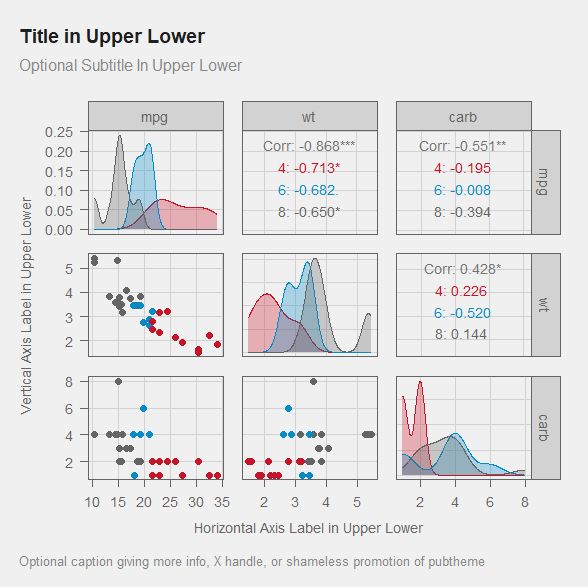
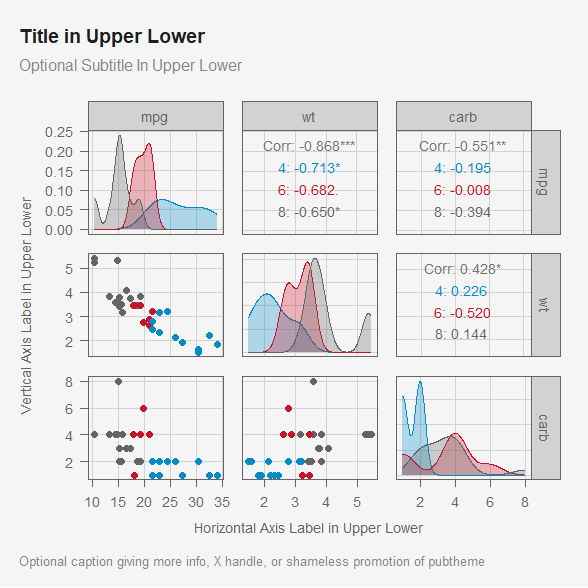
Update img and man

diff --git a/img/Title in Upper Lower.html b/img/Title in Upper Lower.html
@@ -16,9 +16,9 @@
 </head>
 <body>
 <div id="htmlwidget_container">
-  <div id="htmlwidget-3e9abdb3516067872303" style="width:480px;height:480px;" class="plotly html-widget"></div>
+  <div id="htmlwidget-aa36af4b4dc9a694ee22" style="width:480px;height:480px;" class="plotly html-widget"></div>
 </div>
-<script type="application/json" data-for="htmlwidget-3e9abdb3516067872303">{"x":{"data":[{"x":[2.32,3.19,3.15,2.2,1.615,1.835,2.465,1.935,2.14,1.513,2.78],"y":[22.8,24.4,22.8,32.4,30.4,33.9,21.5,27.3,26,30.4,21.4],"text":["Weight: 2.320<br />MPG: 22.8<br />Cylinders: 4<br />Datsun 710","Weight: 3.190<br />MPG: 24.4<br />Cylinders: 4<br />Merc 240D","Weight: 3.150<br />MPG: 22.8<br />Cylinders: 4<br />Merc 230","Weight: 2.200<br />MPG: 32.4<br />Cylinders: 4<br />Fiat 128","Weight: 1.615<br />MPG: 30.4<br />Cylinders: 4<br />Honda Civic","Weight: 1.835<br />MPG: 33.9<br />Cylinders: 4<br />Toyota Corolla","Weight: 2.465<br />MPG: 21.5<br />Cylinders: 4<br />Toyota Corona","Weight: 1.935<br />MPG: 27.3<br />Cylinders: 4<br />Fiat X1-9","Weight: 2.140<br />MPG: 26.0<br />Cylinders: 4<br />Porsche 914-2","Weight: 1.513<br />MPG: 30.4<br />Cylinders: 4<br />Lotus Europa","Weight: 2.780<br />MPG: 21.4<br />Cylinders: 4<br />Volvo 142E"],"type":"scatter","mode":"markers","marker":{"autocolorscale":false,"color":"rgba(200,20,40,1)","opacity":1,"size":8.81889763779528,"symbol":"circle","line":{"width":1.88976377952756,"color":"rgba(200,20,40,1)"},"sizeref":1.5},"hoveron":"points","name":"4","legendgroup":"4","showlegend":true,"xaxis":"x","yaxis":"y","hoverinfo":"text","frame":null},{"x":[2.62,2.875,3.215,3.46,3.44,3.44,2.77],"y":[21,21,21.4,18.1,19.2,17.8,19.7],"text":["Weight: 2.620<br />MPG: 21.0<br />Cylinders: 6<br />Mazda RX4","Weight: 2.875<br />MPG: 21.0<br />Cylinders: 6<br />Mazda RX4 Wag","Weight: 3.215<br />MPG: 21.4<br />Cylinders: 6<br />Hornet 4 Drive","Weight: 3.460<br />MPG: 18.1<br />Cylinders: 6<br />Valiant","Weight: 3.440<br />MPG: 19.2<br />Cylinders: 6<br />Merc 280","Weight: 3.440<br />MPG: 17.8<br />Cylinders: 6<br />Merc 280C","Weight: 2.770<br />MPG: 19.7<br />Cylinders: 6<br />Ferrari Dino"],"type":"scatter","mode":"markers","marker":{"autocolorscale":false,"color":"rgba(5,140,200,1)","opacity":1,"size":8.81889763779528,"symbol":"circle","line":{"width":1.88976377952756,"color":"rgba(5,140,200,1)"},"sizeref":1.5},"hoveron":"points","name":"6","legendgroup":"6","showlegend":true,"xaxis":"x","yaxis":"y","hoverinfo":"text","frame":null},{"x":[3.44,3.57,4.07,3.73,3.78,5.25,5.424,5.345,3.52,3.435,3.84,3.845,3.17,3.57],"y":[18.7,14.3,16.4,17.3,15.2,10.4,10.4,14.7,15.5,15.2,13.3,19.2,15.8,15],"text":["Weight: 3.440<br />MPG: 18.7<br />Cylinders: 8<br />Hornet Sportabout","Weight: 3.570<br />MPG: 14.3<br />Cylinders: 8<br />Duster 360","Weight: 4.070<br />MPG: 16.4<br />Cylinders: 8<br />Merc 450SE","Weight: 3.730<br />MPG: 17.3<br />Cylinders: 8<br />Merc 450SL","Weight: 3.780<br />MPG: 15.2<br />Cylinders: 8<br />Merc 450SLC","Weight: 5.250<br />MPG: 10.4<br />Cylinders: 8<br />Cadillac Fleetwood","Weight: 5.424<br />MPG: 10.4<br />Cylinders: 8<br />Lincoln Continental","Weight: 5.345<br />MPG: 14.7<br />Cylinders: 8<br />Chrysler Imperial","Weight: 3.520<br />MPG: 15.5<br />Cylinders: 8<br />Dodge Challenger","Weight: 3.435<br />MPG: 15.2<br />Cylinders: 8<br />AMC Javelin","Weight: 3.840<br />MPG: 13.3<br />Cylinders: 8<br />Camaro Z28","Weight: 3.845<br />MPG: 19.2<br />Cylinders: 8<br />Pontiac Firebird","Weight: 3.170<br />MPG: 15.8<br />Cylinders: 8<br />Ford Pantera L","Weight: 3.570<br />MPG: 15.0<br />Cylinders: 8<br />Maserati Bora"],"type":"scatter","mode":"markers","marker":{"autocolorscale":false,"color":"rgba(100,100,100,1)","opacity":1,"size":8.81889763779528,"symbol":"circle","line":{"width":1.88976377952756,"color":"rgba(100,100,100,1)"},"sizeref":1.5},"hoveron":"points","name":"8","legendgroup":"8","showlegend":true,"xaxis":"x","yaxis":"y","hoverinfo":"text","frame":null}],"layout":{"margin":{"t":98,"r":16.6666666666667,"b":62,"l":62,"pad":0},"plot_bgcolor":"#F0F0F0","paper_bgcolor":"#F0F0F0","font":{"color":"#646464","family":"Arial","size":12},"title":{"text":"<b> Title in Upper Lower <\/b>","font":{"color":"#1E1E1E","family":"Arial","size":16.6666666666667},"x":0,"xref":"container","pad":{"t":30,"b":30,"l":16.6666666666667,"r":16.6666666666667},"xanchor":"left","y":1,"yanchor":"top","yref":"container"},"xaxis":{"domain":[0,1],"automargin":true,"type":"linear","autorange":false,"range":[0,6],"tickmode":"array","ticktext":["0","3","6"],"tickvals":[0,3,6],"categoryorder":"array","categoryarray":["0","3","6"],"nticks":3,"ticks":"outside","tickcolor":"#646464","ticklen":6.66666666666667,"tickwidth":0.666666666666667,"showticklabels":true,"tickfont":{"color":"#646464","family":"Arial","size":12},"tickangle":-0,"showline":true,"linecolor":"#646464","linewidth":0.666666666666667,"showgrid":true,"gridcolor":"#D2D2D2","gridwidth":0.666666666666667,"zeroline":false,"anchor":"y","title":{"text":"Horizontal Axis Label in Upper Lower","font":{"color":"#646464","family":"Arial","size":12},"standoff":10},"hoverformat":".2f","tick0":0,"mirror":true,"ticklabelstep":1,"layer":"below traces"},"yaxis":{"domain":[0,1],"automargin":true,"type":"linear","autorange":false,"range":[0,40],"tickmode":"array","ticktext":["0","20","40"],"tickvals":[0,20,40],"categoryorder":"array","categoryarray":["0","20","40"],"nticks":null,"ticks":"outside","tickcolor":"#646464","ticklen":6.66666666666667,"tickwidth":0.666666666666667,"showticklabels":true,"tickfont":{"color":"#646464","family":"Arial","size":12},"tickangle":-0,"showline":true,"linecolor":"#646464","linewidth":0.666666666666667,"showgrid":true,"gridcolor":"#D2D2D2","gridwidth":0.666666666666667,"zeroline":false,"anchor":"x","title":{"text":"Vertical Axis Label in Upper Lower","font":{"color":"#646464","family":"Arial","size":12},"standoff":6.66666666666667},"hoverformat":".2f","tick0":0,"mirror":true,"ticklabelstep":1,"layer":"below traces"},"shapes":[{"type":"rect","fillcolor":null,"line":{"color":null,"width":0,"linetype":[]},"yref":"paper","xref":"paper","x0":0,"x1":1,"y0":0,"y1":1}],"showlegend":true,"legend":{"bgcolor":"#F0F0F0","bordercolor":"transparent","borderwidth":0.440944881889764,"font":{"color":"#646464","family":"Arial","size":12},"title":{"text":"Cylinders","font":{"color":"#646464","family":"Arial","size":12}},"grouptitlefont":{"family":"Arial","color":"#646464"},"orientation":"h","itemclick":"toggleothers","itemdoubleclick":"toggle","itemsizing":"constant","itemwidth":3.33333333333333,"xref":"paper","x":-0.105,"xanchor":"left","y":1.03,"yanchor":"bottom","tracegroupgap":6.66666666666667,"valign":"top"},"hovermode":"closest","width":480,"height":480,"barmode":"relative","autosize":true,"hoverlabel":{"bgcolor":"#F0F0F0"},"colorway":["#C81428","#058CC8","#646464","#E68C8C","#82B4D2"],"colorscale":["#D2D2D2","#058CC8"]},"config":{"doubleClick":"reset","modeBarButtonsToAdd":["hoverclosest","hovercompare"],"showSendToCloud":false},"source":"A","attrs":{"7adc10491cc9":{"x":{},"y":{},"colour":{},"text":{},"type":"scatter"}},"cur_data":"7adc10491cc9","visdat":{"7adc10491cc9":["function (y) ","x"]},"highlight":{"on":"plotly_click","persistent":false,"dynamic":false,"selectize":false,"opacityDim":0.2,"selected":{"opacity":1},"debounce":0},"shinyEvents":["plotly_hover","plotly_click","plotly_selected","plotly_relayout","plotly_brushed","plotly_brushing","plotly_clickannotation","plotly_doubleclick","plotly_deselect","plotly_afterplot","plotly_sunburstclick"],"base_url":"https://plot.ly"},"evals":[],"jsHooks":[]}</script>
-<script type="application/htmlwidget-sizing" data-for="htmlwidget-3e9abdb3516067872303">{"viewer":{"width":480,"height":480,"padding":0,"fill":false},"browser":{"width":480,"height":480,"padding":0,"fill":false}}</script>
+<script type="application/json" data-for="htmlwidget-aa36af4b4dc9a694ee22">{"x":{"data":[{"x":[2.32,3.19,3.15,2.2,1.615,1.835,2.465,1.935,2.14,1.513,2.78],"y":[22.8,24.4,22.8,32.4,30.4,33.9,21.5,27.3,26,30.4,21.4],"text":["Weight: 2.320<br />MPG: 22.8<br />Cylinders: 4<br />Datsun 710","Weight: 3.190<br />MPG: 24.4<br />Cylinders: 4<br />Merc 240D","Weight: 3.150<br />MPG: 22.8<br />Cylinders: 4<br />Merc 230","Weight: 2.200<br />MPG: 32.4<br />Cylinders: 4<br />Fiat 128","Weight: 1.615<br />MPG: 30.4<br />Cylinders: 4<br />Honda Civic","Weight: 1.835<br />MPG: 33.9<br />Cylinders: 4<br />Toyota Corolla","Weight: 2.465<br />MPG: 21.5<br />Cylinders: 4<br />Toyota Corona","Weight: 1.935<br />MPG: 27.3<br />Cylinders: 4<br />Fiat X1-9","Weight: 2.140<br />MPG: 26.0<br />Cylinders: 4<br />Porsche 914-2","Weight: 1.513<br />MPG: 30.4<br />Cylinders: 4<br />Lotus Europa","Weight: 2.780<br />MPG: 21.4<br />Cylinders: 4<br />Volvo 142E"],"type":"scatter","mode":"markers","marker":{"autocolorscale":false,"color":"rgba(5,140,200,1)","opacity":1,"size":8.81889763779528,"symbol":"circle","line":{"width":1.88976377952756,"color":"rgba(5,140,200,1)"},"sizeref":1.5},"hoveron":"points","name":"4","legendgroup":"4","showlegend":true,"xaxis":"x","yaxis":"y","hoverinfo":"text","frame":null},{"x":[2.62,2.875,3.215,3.46,3.44,3.44,2.77],"y":[21,21,21.4,18.1,19.2,17.8,19.7],"text":["Weight: 2.620<br />MPG: 21.0<br />Cylinders: 6<br />Mazda RX4","Weight: 2.875<br />MPG: 21.0<br />Cylinders: 6<br />Mazda RX4 Wag","Weight: 3.215<br />MPG: 21.4<br />Cylinders: 6<br />Hornet 4 Drive","Weight: 3.460<br />MPG: 18.1<br />Cylinders: 6<br />Valiant","Weight: 3.440<br />MPG: 19.2<br />Cylinders: 6<br />Merc 280","Weight: 3.440<br />MPG: 17.8<br />Cylinders: 6<br />Merc 280C","Weight: 2.770<br />MPG: 19.7<br />Cylinders: 6<br />Ferrari Dino"],"type":"scatter","mode":"markers","marker":{"autocolorscale":false,"color":"rgba(200,20,40,1)","opacity":1,"size":8.81889763779528,"symbol":"circle","line":{"width":1.88976377952756,"color":"rgba(200,20,40,1)"},"sizeref":1.5},"hoveron":"points","name":"6","legendgroup":"6","showlegend":true,"xaxis":"x","yaxis":"y","hoverinfo":"text","frame":null},{"x":[3.44,3.57,4.07,3.73,3.78,5.25,5.424,5.345,3.52,3.435,3.84,3.845,3.17,3.57],"y":[18.7,14.3,16.4,17.3,15.2,10.4,10.4,14.7,15.5,15.2,13.3,19.2,15.8,15],"text":["Weight: 3.440<br />MPG: 18.7<br />Cylinders: 8<br />Hornet Sportabout","Weight: 3.570<br />MPG: 14.3<br />Cylinders: 8<br />Duster 360","Weight: 4.070<br />MPG: 16.4<br />Cylinders: 8<br />Merc 450SE","Weight: 3.730<br />MPG: 17.3<br />Cylinders: 8<br />Merc 450SL","Weight: 3.780<br />MPG: 15.2<br />Cylinders: 8<br />Merc 450SLC","Weight: 5.250<br />MPG: 10.4<br />Cylinders: 8<br />Cadillac Fleetwood","Weight: 5.424<br />MPG: 10.4<br />Cylinders: 8<br />Lincoln Continental","Weight: 5.345<br />MPG: 14.7<br />Cylinders: 8<br />Chrysler Imperial","Weight: 3.520<br />MPG: 15.5<br />Cylinders: 8<br />Dodge Challenger","Weight: 3.435<br />MPG: 15.2<br />Cylinders: 8<br />AMC Javelin","Weight: 3.840<br />MPG: 13.3<br />Cylinders: 8<br />Camaro Z28","Weight: 3.845<br />MPG: 19.2<br />Cylinders: 8<br />Pontiac Firebird","Weight: 3.170<br />MPG: 15.8<br />Cylinders: 8<br />Ford Pantera L","Weight: 3.570<br />MPG: 15.0<br />Cylinders: 8<br />Maserati Bora"],"type":"scatter","mode":"markers","marker":{"autocolorscale":false,"color":"rgba(100,100,100,1)","opacity":1,"size":8.81889763779528,"symbol":"circle","line":{"width":1.88976377952756,"color":"rgba(100,100,100,1)"},"sizeref":1.5},"hoveron":"points","name":"8","legendgroup":"8","showlegend":true,"xaxis":"x","yaxis":"y","hoverinfo":"text","frame":null}],"layout":{"margin":{"t":98,"r":16.6666666666667,"b":62,"l":62,"pad":0},"plot_bgcolor":"#F5F5F5","paper_bgcolor":"#F5F5F5","font":{"color":"#646464","family":"Arial","size":12},"title":{"text":"<b> Title in Upper Lower <\/b>","font":{"color":"#1E1E1E","family":"Arial","size":16.6666666666667},"x":0,"xref":"container","pad":{"t":30,"b":30,"l":16.6666666666667,"r":16.6666666666667},"xanchor":"left","y":1,"yanchor":"top","yref":"container"},"xaxis":{"domain":[0,1],"automargin":true,"type":"linear","autorange":false,"range":[0,6],"tickmode":"array","ticktext":["0","3","6"],"tickvals":[0,3,6],"categoryorder":"array","categoryarray":["0","3","6"],"nticks":3,"ticks":"outside","tickcolor":"#646464","ticklen":6.66666666666667,"tickwidth":0.666666666666667,"showticklabels":true,"tickfont":{"color":"#646464","family":"Arial","size":12},"tickangle":-0,"showline":true,"linecolor":"#646464","linewidth":0.666666666666667,"showgrid":true,"gridcolor":"#D2D2D2","gridwidth":0.666666666666667,"zeroline":false,"anchor":"y","title":{"text":"Horizontal Axis Label in Upper Lower","font":{"color":"#646464","family":"Arial","size":12},"standoff":10},"hoverformat":".2f","tick0":0,"mirror":true,"ticklabelstep":1,"layer":"below traces"},"yaxis":{"domain":[0,1],"automargin":true,"type":"linear","autorange":false,"range":[0,40],"tickmode":"array","ticktext":["0","20","40"],"tickvals":[0,20,40],"categoryorder":"array","categoryarray":["0","20","40"],"nticks":null,"ticks":"outside","tickcolor":"#646464","ticklen":6.66666666666667,"tickwidth":0.666666666666667,"showticklabels":true,"tickfont":{"color":"#646464","family":"Arial","size":12},"tickangle":-0,"showline":true,"linecolor":"#646464","linewidth":0.666666666666667,"showgrid":true,"gridcolor":"#D2D2D2","gridwidth":0.666666666666667,"zeroline":false,"anchor":"x","title":{"text":"Vertical Axis Label in Upper Lower","font":{"color":"#646464","family":"Arial","size":12},"standoff":6.66666666666667},"hoverformat":".2f","tick0":0,"mirror":true,"ticklabelstep":1,"layer":"below traces"},"shapes":[{"type":"rect","fillcolor":null,"line":{"color":null,"width":0,"linetype":[]},"yref":"paper","xref":"paper","x0":0,"x1":1,"y0":0,"y1":1}],"showlegend":true,"legend":{"bgcolor":"#F5F5F5","bordercolor":"transparent","borderwidth":0.440944881889764,"font":{"color":"#646464","family":"Arial","size":12},"title":{"text":"Cylinders","font":{"color":"#646464","family":"Arial","size":12}},"grouptitlefont":{"family":"Arial","color":"#646464"},"orientation":"h","itemclick":"toggleothers","itemdoubleclick":"toggle","itemsizing":"constant","itemwidth":3.33333333333333,"xref":"paper","x":-0.105,"xanchor":"left","y":1.03,"yanchor":"bottom","tracegroupgap":6.66666666666667,"valign":"top"},"hovermode":"closest","width":480,"height":480,"barmode":"relative","autosize":true,"hoverlabel":{"bgcolor":"#F5F5F5"},"colorway":["#058CC8","#C81428","#646464","#82B4D2","#E68C8C"],"colorscale":["#D2D2D2","#058CC8"]},"config":{"doubleClick":"reset","modeBarButtonsToAdd":["hoverclosest","hovercompare"],"showSendToCloud":false},"source":"A","attrs":{"54c424e115e":{"x":{},"y":{},"colour":{},"text":{},"type":"scatter"}},"cur_data":"54c424e115e","visdat":{"54c424e115e":["function (y) ","x"]},"highlight":{"on":"plotly_click","persistent":false,"dynamic":false,"selectize":false,"opacityDim":0.2,"selected":{"opacity":1},"debounce":0},"shinyEvents":["plotly_hover","plotly_click","plotly_selected","plotly_relayout","plotly_brushed","plotly_brushing","plotly_clickannotation","plotly_doubleclick","plotly_deselect","plotly_afterplot","plotly_sunburstclick"],"base_url":"https://plot.ly"},"evals":[],"jsHooks":[]}</script>
+<script type="application/htmlwidget-sizing" data-for="htmlwidget-aa36af4b4dc9a694ee22">{"viewer":{"width":480,"height":480,"padding":0,"fill":false},"browser":{"width":480,"height":480,"padding":0,"fill":false}}</script>
 </body>
 </html>
